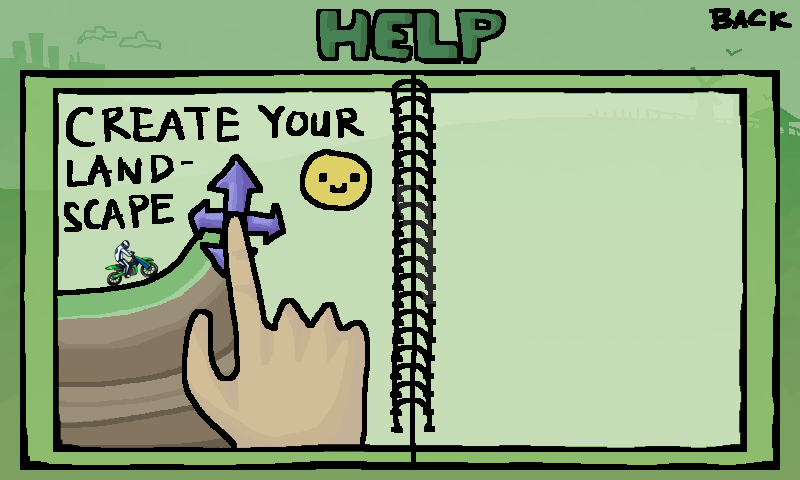
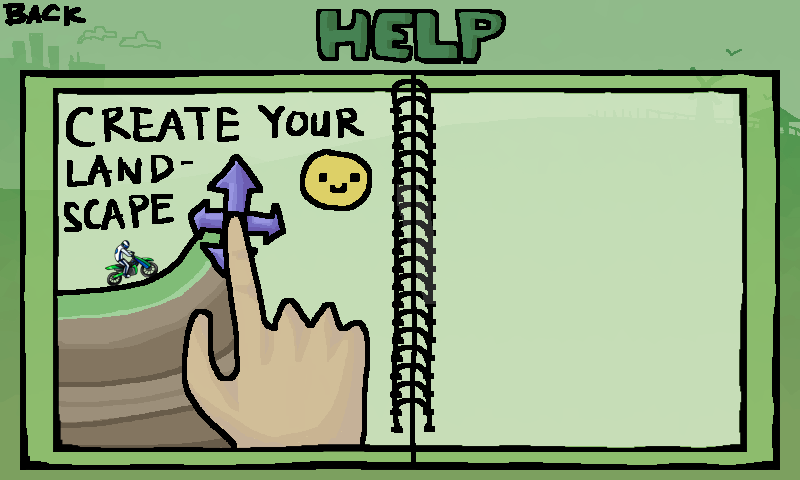
Fixed back and forth between menu images, and decreased the postion of the SCORE when game over

Changed region(s): [[0.875, 0.0, 1.0, 0.0625], [0.0, 0.0, 0.125, 0.0625]]

diff --git a/GCA2/Screens/PhoneMainMenuScreen.cs b/GCA2/Screens/PhoneMainMenuScreen.cs
@@ -96,7 +96,7 @@ namespace GCA2
                 }
                 else if (currentMenuPage == 1)
                 {
-                    if ((touchposition.X >= 725 && touchposition.X <= 800) && (touchposition.Y >= 0 && touchposition.Y <= 45))
+                    if ((touchposition.X >= 0 && touchposition.X <= 100) && (touchposition.Y >= 0 && touchposition.Y <= 45))
                     {
                         backToMenu();
                         currentMenuPage = 0;
@@ -105,7 +105,7 @@ namespace GCA2
                 }
                 else if (currentMenuPage == 2)
                 {
-                    if ((touchposition.X >= 725 && touchposition.X <= 800) && (touchposition.Y >= 0 && touchposition.Y <= 45))
+                    if ((touchposition.X >= 0 && touchposition.X <= 100) && (touchposition.Y >= 0 && touchposition.Y <= 45))
                     {
                         backToMenu();
                         currentMenuPage = 0;

diff --git a/GCA2/SpriteManager.cs b/GCA2/SpriteManager.cs
@@ -101,7 +101,7 @@ namespace GCA2
             else
             {
                 spriteBatch.Draw(gameOverlay, new Vector2(0, 0), Color.White);
-                spriteBatch.DrawString(mainFont, "SCORE: " + world.player.Score.Points, new Vector2(200 - mainFont.Spacing, 200), Color.White);
+                spriteBatch.DrawString(mainFont, "SCORE: " + world.player.Score.Points, new Vector2(200 - mainFont.Spacing, 240), Color.White);
             }
             spriteBatch.End();
             base.Draw(gameTime);
